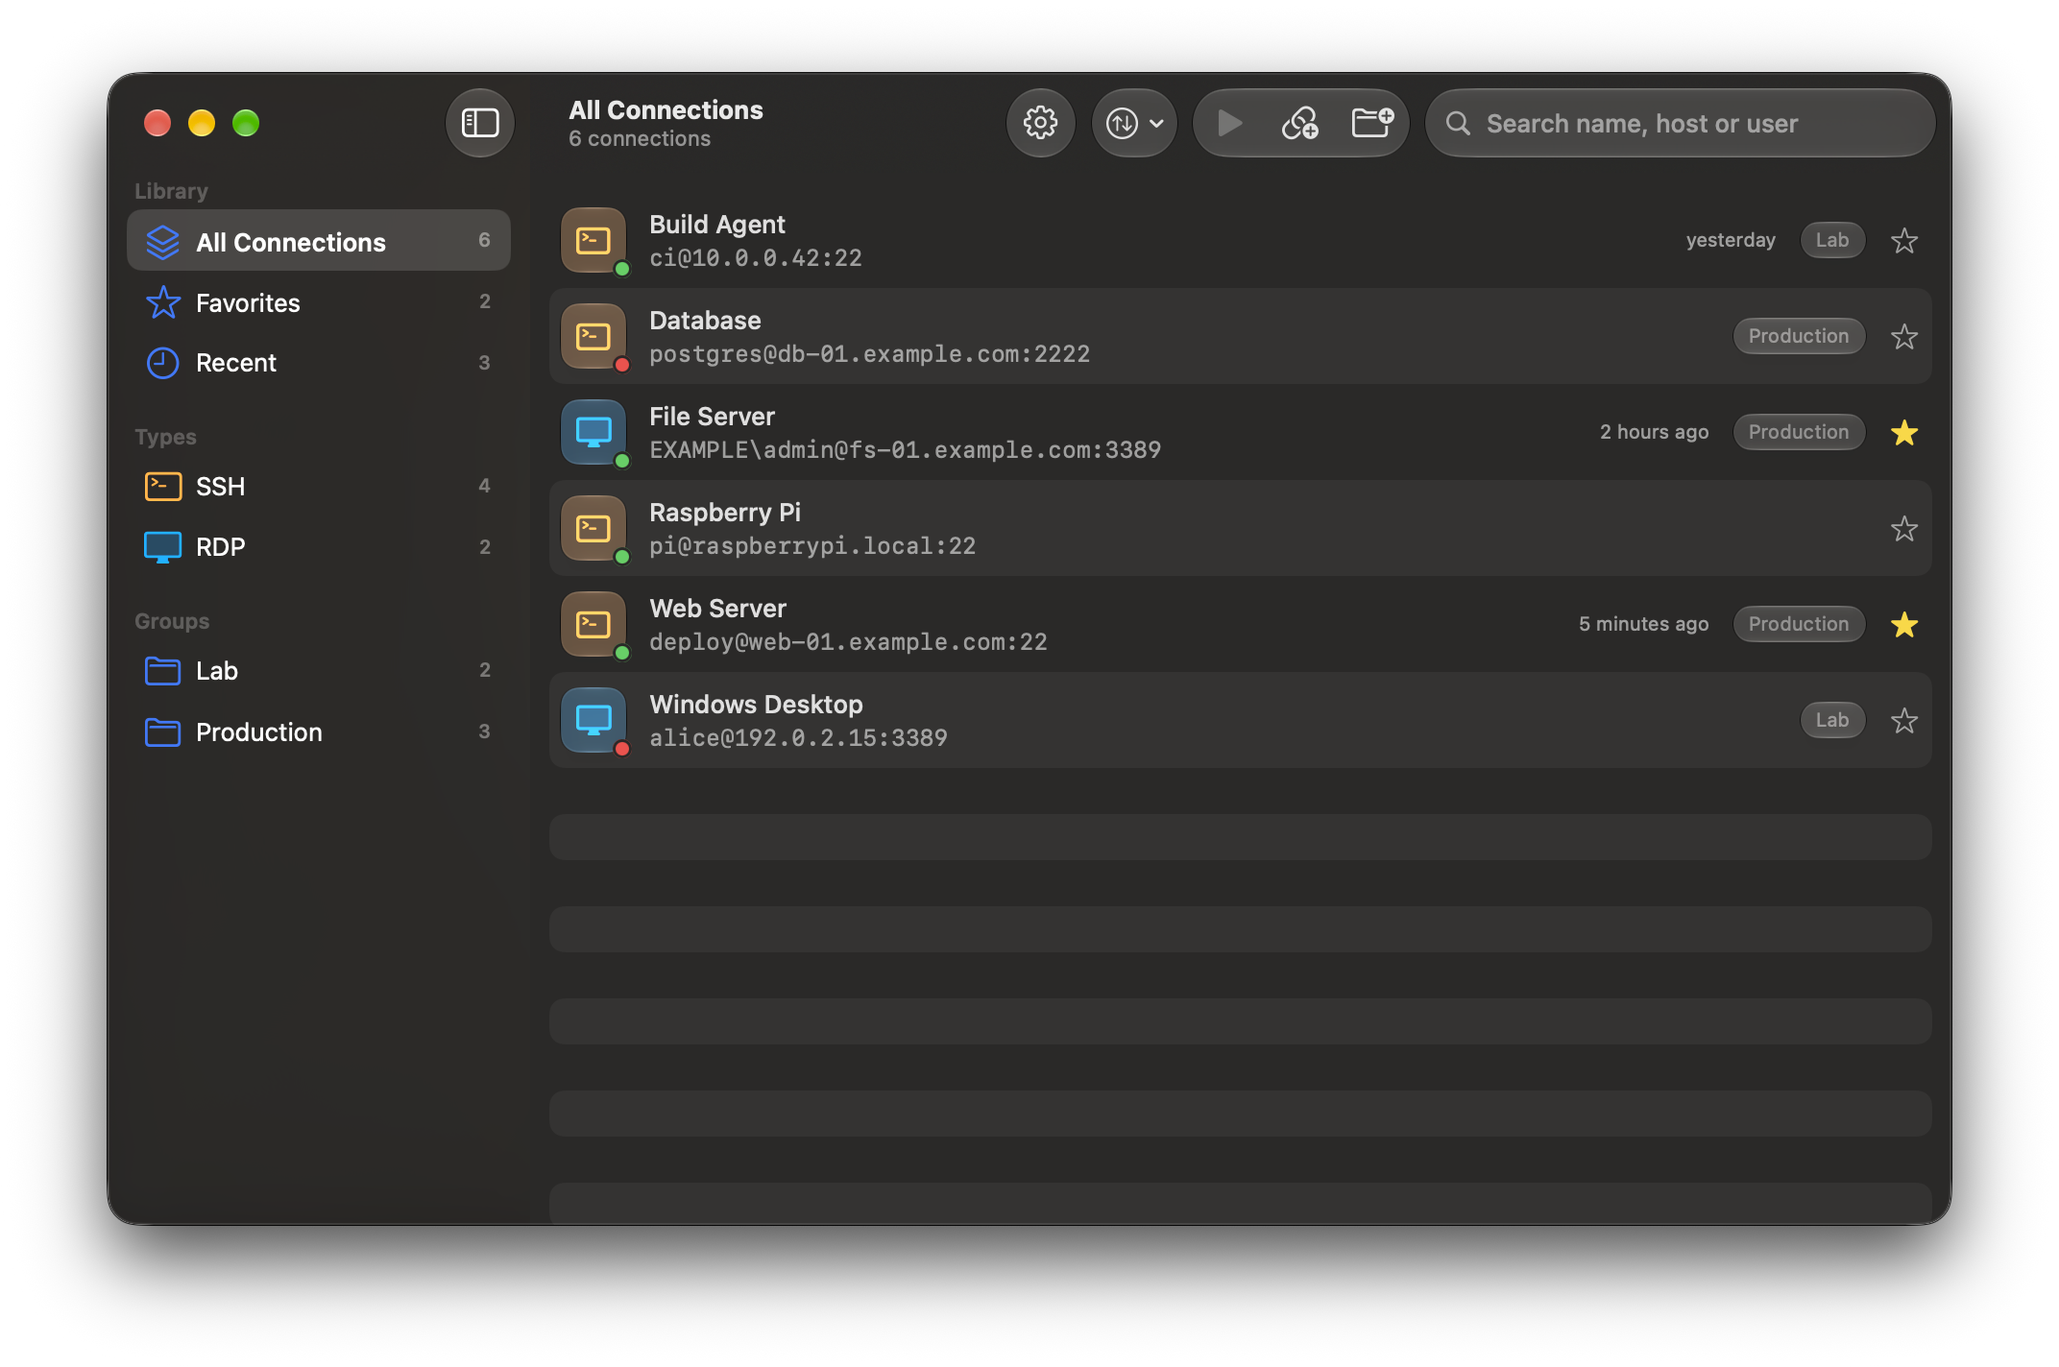
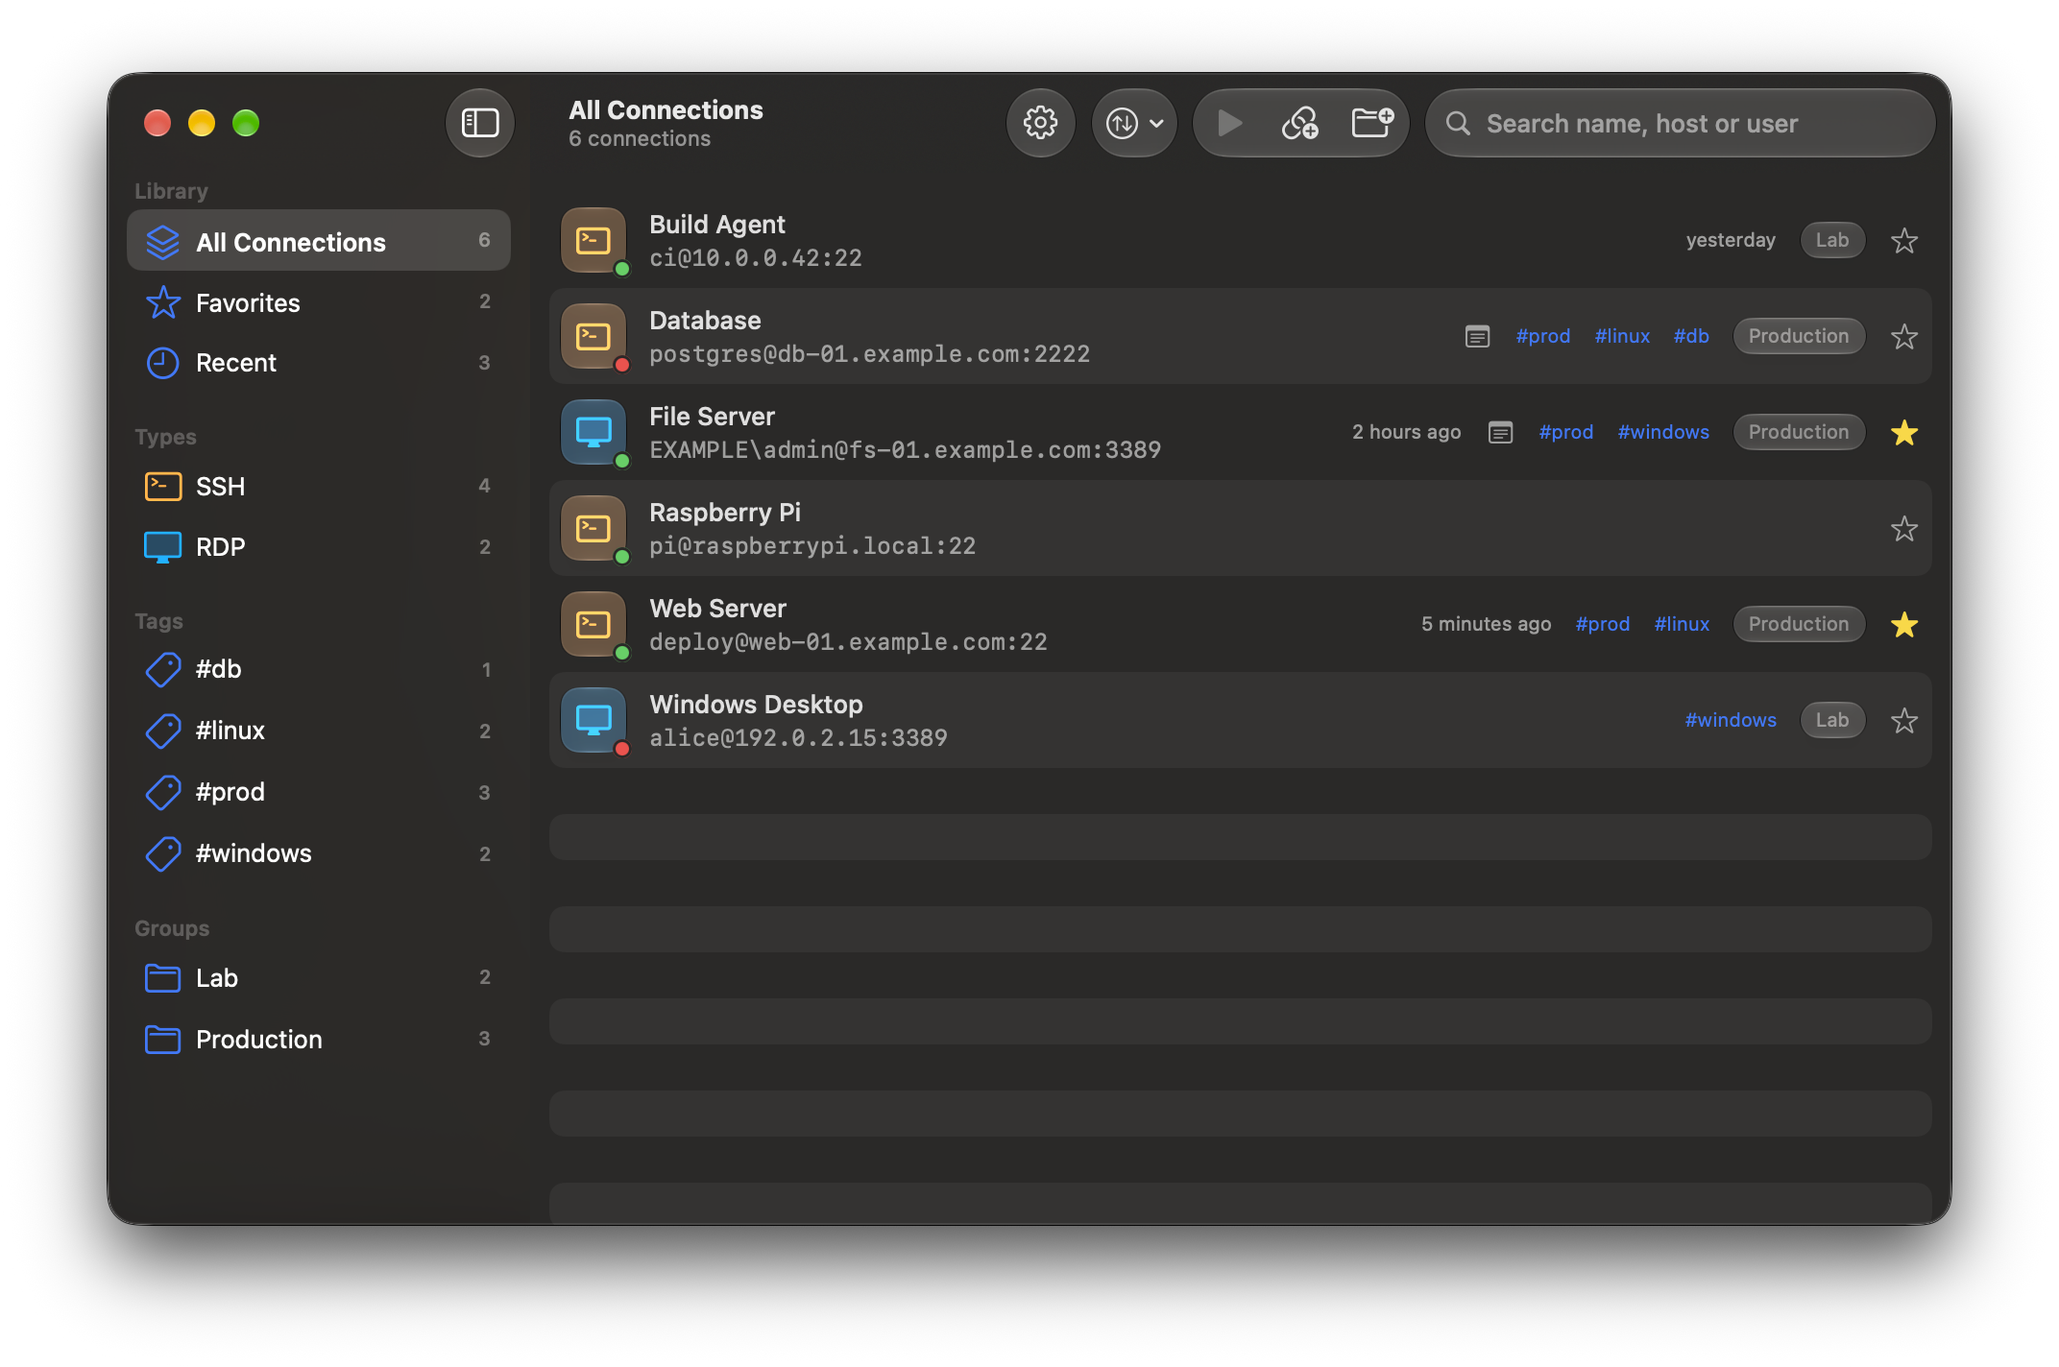
feat: add notes and tags to connections
- Connections get free-form notes and comma-separated tags (trimmed,
  case-insensitively de-duplicated). Existing stores and older backups
  load with empty values.
- Editor: Tags field next to Favorite and a full-width Notes section;
  the form is taller so it doesn't need scrolling.
- Rows show up to three #tags (+N for the rest) and a note icon whose
  tooltip shows the note.
- Sidebar: a Tags section with counts filters by tag.
- List search and quick connect also match notes and tags.
- Backups and Duplicate carry notes and tags; README and screenshots
  updated.

diff --git a/CoreRemoteTests/TagsTests.swift b/CoreRemoteTests/TagsTests.swift
@@ -1,0 +1,67 @@
+import Foundation
+import SwiftData
+import Testing
+@testable import CoreRemote
+
+@MainActor
+struct TagsTests {
+    @Test func normalizeSplitsTrimsAndDedupes() {
+        #expect(Tags.normalize(" prod, Linux ,,prod\nPROD, dc ") == ["prod", "Linux", "dc"])
+        #expect(Tags.normalize("") == [])
+    }
+
+    @Test func countsAreCaseInsensitiveAndSorted() {
+        let a = Connection(name: "A", host: "a", type: .ssh, username: "u", tags: ["prod", "linux"])
+        let b = Connection(name: "B", host: "b", type: .ssh, username: "u", tags: ["Prod"])
+        let counts = Tags.counts(in: [a, b])
+        #expect(counts.map(\.tag) == ["linux", "prod"])
+        #expect(counts.map(\.count) == [1, 2])
+    }
+
+    @Test func sidebarTagFilterIgnoresCase() {
+        let a = Connection(name: "A", host: "a", type: .ssh, username: "u", tags: ["Prod"])
+        let b = Connection(name: "B", host: "b", type: .ssh, username: "u")
+        #expect(SidebarItem.tag("prod").filter([a, b]).map(\.name) == ["A"])
+    }
+
+    @Test func draftRoundTripsNotesAndTags() {
+        let connection = Connection(name: "A", host: "a", type: .ssh, username: "u")
+        var draft = ConnectionDraft(connection: connection, password: nil)
+        draft.tagsText = "web, , Web, linux"
+        draft.notes = "  hello  \n"
+        draft.apply(to: connection, group: nil)
+        #expect(connection.tags == ["web", "linux"])
+        #expect(connection.notes == "hello")
+        #expect(ConnectionDraft(connection: connection, password: nil).tagsText == "web, linux")
+    }
+
+    @Test func quickConnectFindsTagsAndNotes() {
+        let a = Connection(name: "A", host: "a", type: .ssh, username: "u", notes: "replica of primary", tags: ["postgres"])
+        let b = Connection(name: "B", host: "b", type: .ssh, username: "u")
+        #expect(QuickConnectSearch.results(for: "postgres", in: [a, b]).map(\.name) == ["A"])
+        #expect(QuickConnectSearch.results(for: "replica", in: [a, b]).map(\.name) == ["A"])
+    }
+
+    @Test func backupKeepsNotesAndTags() throws {
+        let container = try ModelContainer(
+            for: Connection.self, ConnectionGroup.self,
+            configurations: ModelConfiguration(isStoredInMemoryOnly: true)
+        )
+        let connection = Connection(name: "A", host: "a", type: .ssh, username: "u", notes: "n", tags: ["x", "y"])
+        let payload = BackupStore.payload(connections: [connection], groups: [], includePasswords: false, passwords: InMemoryPasswordStore())
+        let decoded = try Backup.decode(try Backup.encode(payload, passphrase: nil), passphrase: nil)
+
+        let context = ModelContext(container)
+        _ = try BackupStore.importPayload(decoded, into: context, passwords: InMemoryPasswordStore())
+        let imported = try #require(try context.fetch(FetchDescriptor<Connection>()).first)
+        #expect(imported.notes == "n")
+        #expect(imported.tags == ["x", "y"])
+    }
+
+    @Test func olderBackupsWithoutTagsStillImport() throws {
+        let json = #"{"format":"coreremote","version":1,"exportedAt":"2026-01-01T00:00:00Z","payload":{"groups":[],"connections":[{"id":"8C1D9F0E-6B57-4A55-9C2B-2B1E7C3F4A11","name":"Old","host":"h","type":"ssh","port":22,"username":"u","isFavorite":false}]}}"#
+        let payload = try Backup.decode(Data(json.utf8), passphrase: nil)
+        #expect(payload.connections.first?.tags == nil)
+        #expect(payload.connections.first?.notes == nil)
+    }
+}

diff --git a/CoreRemote/App/DemoData.swift b/CoreRemote/App/DemoData.swift
@@ -41,14 +41,16 @@ enum DemoData {
 
         let connections = [
             Connection(name: "Web Server", host: "web-01.example.com", type: .ssh, username: "deploy",
-                       isFavorite: true, group: production),
+                       tags: ["prod", "linux"], isFavorite: true, group: production),
             Connection(name: "Database", host: "db-01.example.com", type: .ssh, port: 2222, username: "postgres",
+                       notes: "Primary PostgreSQL 17. Read replica on db-02.", tags: ["prod", "linux", "db"],
                        group: production),
             Connection(name: "File Server", host: "fs-01.example.com", type: .rdp, username: "EXAMPLE\\admin",
+                       notes: "Shares: \\\\fs-01\\projects, \\\\fs-01\\home", tags: ["prod", "windows"],
                        isFavorite: true, group: production),
             Connection(name: "Build Agent", host: "10.0.0.42", type: .ssh, username: "ci",
                        keyFilePath: "~/.ssh/id_ed25519", group: lab),
-            Connection(name: "Windows Desktop", host: "192.0.2.15", type: .rdp, username: "alice", group: lab),
+            Connection(name: "Windows Desktop", host: "192.0.2.15", type: .rdp, username: "alice", tags: ["windows"], group: lab),
             Connection(name: "Raspberry Pi", host: "raspberrypi.local", type: .ssh, username: "pi"),
         ]
         connections.forEach(context.insert)

diff --git a/CoreRemote/Services/Backup.swift b/CoreRemote/Services/Backup.swift
@@ -20,6 +20,8 @@ nonisolated struct BackupPayload: Codable, Equatable, Sendable {
         var keyFilePath: String?
         /// Missing in files from before this option existed.
         var ignoreCertificateErrors: Bool?
+        var notes: String?
+        var tags: [String]?
         var isFavorite: Bool
         var group: String?
         var password: String?
@@ -178,6 +180,8 @@ enum BackupStore {
                     username: connection.username,
                     keyFilePath: connection.keyFilePath,
                     ignoreCertificateErrors: connection.ignoreCertificateErrors,
+                    notes: connection.notes.isEmpty ? nil : connection.notes,
+                    tags: connection.tags.isEmpty ? nil : connection.tags,
                     isFavorite: connection.isFavorite,
                     group: connection.group?.name,
                     password: includePasswords ? passwords.password(for: connection.id) : nil
@@ -224,6 +228,8 @@ enum BackupStore {
                 username: item.username,
                 keyFilePath: item.type == .ssh ? item.keyFilePath : nil,
                 ignoreCertificateErrors: item.type == .rdp && item.ignoreCertificateErrors == true,
+                notes: item.notes ?? "",
+                tags: Tags.normalize(item.tags ?? []),
                 isFavorite: item.isFavorite,
                 group: group(named: item.group)
             )

diff --git a/CoreRemote/Views/ConnectionRow.swift b/CoreRemote/Views/ConnectionRow.swift
@@ -4,6 +4,8 @@ struct ConnectionRow: View {
     @Bindable var connection: Connection
     var status: ReachabilityMonitor.Status?
 
+    static let visibleTagCount = 3
+
     var body: some View {
         HStack(spacing: 12) {
             TypeBadge(type: connection.type)
@@ -36,6 +38,24 @@ struct ConnectionRow: View {
                 .font(.caption)
                 .foregroundStyle(.secondary)
                 .help(lastConnectedAt.formatted(date: .abbreviated, time: .shortened))
+            }
+
+            if !connection.notes.isEmpty {
+                Image(systemName: "note.text")
+                    .foregroundStyle(.secondary)
+                    .help(connection.notes)
+            }
+
+            ForEach(connection.tags.prefix(Self.visibleTagCount), id: \.self) { tag in
+                Text(verbatim: "#\(tag)")
+                    .font(.caption)
+                    .foregroundStyle(.tint)
+            }
+            if connection.tags.count > Self.visibleTagCount {
+                Text(verbatim: "+\(connection.tags.count - Self.visibleTagCount)")
+                    .font(.caption)
+                    .foregroundStyle(.secondary)
+                    .help(connection.tags.dropFirst(Self.visibleTagCount).map { "#\($0)" }.joined(separator: " "))
             }
 
             if let group = connection.group {

diff --git a/CoreRemote/Models/Tags.swift b/CoreRemote/Models/Tags.swift
@@ -1,0 +1,31 @@
+import Foundation
+
+enum Tags {
+    /// Splits comma- or newline-separated text into tags.
+    nonisolated static func normalize(_ text: String) -> [String] {
+        normalize(text.components(separatedBy: CharacterSet(charactersIn: ",\n")))
+    }
+
+    /// Trims tags, drops empty ones and case-insensitive duplicates, keeping the first spelling and order.
+    nonisolated static func normalize(_ tags: [String]) -> [String] {
+        var seen = Set<String>()
+        return tags
+            .map { $0.trimmingCharacters(in: .whitespacesAndNewlines) }
+            .filter { !$0.isEmpty && seen.insert($0.lowercased()).inserted }
+    }
+
+    /// Every tag in use, case-insensitively unique and sorted, with how many connections carry it.
+    static func counts(in connections: [Connection]) -> [(tag: String, count: Int)] {
+        var counts: [String: (tag: String, count: Int)] = [:]
+        for tag in connections.flatMap(\.tags) {
+            counts[tag.lowercased(), default: (tag, 0)].count += 1
+        }
+        return counts.values.sorted { $0.tag.localizedStandardCompare($1.tag) == .orderedAscending }
+    }
+}
+
+extension Connection {
+    func hasTag(_ tag: String) -> Bool {
+        tags.contains { $0.caseInsensitiveCompare(tag) == .orderedSame }
+    }
+}

diff --git a/CoreRemote/Models/Connection.swift b/CoreRemote/Models/Connection.swift
@@ -13,6 +13,10 @@ final class Connection {
     var keyFilePath: String?
     /// RDP only: connect even when the server certificate can't be verified.
     var ignoreCertificateErrors: Bool = false
+    /// Free-form notes shown in the editor and searched.
+    var notes: String = ""
+    /// Labels such as "prod" or "dc"; see `Tags.normalize`.
+    var tags: [String] = []
     var isFavorite: Bool
     var createdAt: Date
     /// When the connection was last opened; `nil` if never (or after clearing history).
@@ -33,6 +37,8 @@ final class Connection {
         username: String,
         keyFilePath: String? = nil,
         ignoreCertificateErrors: Bool = false,
+        notes: String = "",
+        tags: [String] = [],
         isFavorite: Bool = false,
         createdAt: Date = .now,
         group: ConnectionGroup? = nil
@@ -45,6 +51,8 @@ final class Connection {
         self.username = username
         self.keyFilePath = keyFilePath
         self.ignoreCertificateErrors = ignoreCertificateErrors
+        self.notes = notes
+        self.tags = tags
         self.isFavorite = isFavorite
         self.createdAt = createdAt
         self.group = group

diff --git a/CoreRemote/Views/ConnectionEditor.swift b/CoreRemote/Views/ConnectionEditor.swift
@@ -125,12 +125,24 @@ struct ConnectionEditor: View {
                         Text("New Group…").tag(UUID?.some(Self.newGroupTag))
                     }
                     Toggle("Favorite", isOn: $draft.isFavorite)
+                    TextField("Tags", text: $draft.tagsText, prompt: Text("prod, linux, dc"))
+                        .autocorrectionDisabled()
+                } footer: {
+                    Text("Separate tags with commas.")
+                        .font(.caption)
+                        .foregroundStyle(.secondary)
+                }
+
+                Section("Notes") {
+                    TextField("Notes", text: $draft.notes, prompt: Text("Optional"), axis: .vertical)
+                        .labelsHidden()
+                        .lineLimit(3...6)
                 }
             }
             .formStyle(.grouped)
             .scrollContentBackground(.hidden)
             // A Form in a sheet otherwise collapses to a few rows.
-            .frame(minHeight: 580, idealHeight: 580)
+            .frame(minHeight: 680, idealHeight: 680)
 
             if let errorMessage {
                 Text(errorMessage)

diff --git a/CoreRemote/Models/ConnectionDraft.swift b/CoreRemote/Models/ConnectionDraft.swift
@@ -10,6 +10,9 @@ struct ConnectionDraft: Equatable {
     var password = ""
     var keyFilePath = ""
     var ignoreCertificateErrors = false
+    var notes = ""
+    /// Comma-separated, as typed in the editor.
+    var tagsText = ""
     var isFavorite = false
     var groupID: UUID?
 
@@ -24,6 +27,8 @@ struct ConnectionDraft: Equatable {
         self.password = password ?? ""
         keyFilePath = connection.keyFilePath ?? ""
         ignoreCertificateErrors = connection.ignoreCertificateErrors
+        notes = connection.notes
+        tagsText = connection.tags.joined(separator: ", ")
         isFavorite = connection.isFavorite
         groupID = connection.group?.id
     }
@@ -67,6 +72,8 @@ struct ConnectionDraft: Equatable {
         connection.username = trimmedUsername
         connection.keyFilePath = trimmedKeyFilePath
         connection.ignoreCertificateErrors = type == .rdp && ignoreCertificateErrors
+        connection.notes = notes.trimmingCharacters(in: .whitespacesAndNewlines)
+        connection.tags = Tags.normalize(tagsText)
         connection.isFavorite = isFavorite
         connection.group = group
     }

diff --git a/CoreRemote/Models/QuickConnectSearch.swift b/CoreRemote/Models/QuickConnectSearch.swift
@@ -4,7 +4,7 @@ import Foundation
 enum QuickConnectSearch {
     /// With an empty query: recently used first, then favorites, then the rest by name.
     /// With a query: best match first (name prefix, word in the name, anywhere in the name,
-    /// then host, user or group), ties broken by recent use and name.
+    /// then host, user, group, tags or notes), ties broken by recent use and name.
     static func results(for query: String, in connections: [Connection]) -> [Connection] {
         let query = query.trimmingCharacters(in: .whitespacesAndNewlines)
         let scored = connections.compactMap { connection -> (Connection, Int)? in
@@ -33,7 +33,7 @@ enum QuickConnectSearch {
             return 1
         }
         if name.localizedStandardContains(query) { return 2 }
-        let others = [connection.host, connection.username, connection.group?.name ?? ""]
+        let others = [connection.host, connection.username, connection.group?.name ?? "", connection.notes] + connection.tags
         if others.contains(where: { $0.localizedStandardContains(query) }) { return 3 }
         return nil
     }

diff --git a/CoreRemote/Views/SidebarView.swift b/CoreRemote/Views/SidebarView.swift
@@ -7,6 +7,7 @@ enum SidebarItem: Hashable {
     case recent
     case type(ConnectionType)
     case group(UUID)
+    case tag(String)
 
     static let recentLimit = 10
 
@@ -26,6 +27,7 @@ enum SidebarItem: Hashable {
             )
         case .type(let type): connections.filter { $0.type == type }
         case .group(let id): connections.filter { $0.group?.id == id }
+        case .tag(let tag): connections.filter { $0.hasTag(tag) }
         }
     }
 }
@@ -49,6 +51,15 @@ struct SidebarView: View {
             Section("Types") {
                 ForEach(ConnectionType.allCases) { type in
                     row(.type(type), title: Text(verbatim: type.title), symbol: type.symbol, tint: type.tint)
+                }
+            }
+
+            let tags = Tags.counts(in: connections)
+            if !tags.isEmpty {
+                Section("Tags") {
+                    ForEach(tags, id: \.tag) { entry in
+                        row(.tag(entry.tag), title: Text(verbatim: "#\(entry.tag)"), symbol: "tag")
+                    }
                 }
             }
 

diff --git a/CoreRemote/Views/ConnectionListView.swift b/CoreRemote/Views/ConnectionListView.swift
@@ -22,8 +22,8 @@ struct ConnectionListView: View {
         let query = searchText.trimmingCharacters(in: .whitespaces)
         return filter.filter(allConnections).filter { connection in
             guard !query.isEmpty else { return true }
-            return [connection.name, connection.host, connection.username, connection.group?.name ?? ""]
-                .contains { $0.localizedStandardContains(query) }
+            let fields = [connection.name, connection.host, connection.username, connection.group?.name ?? "", connection.notes]
+            return (fields + connection.tags).contains { $0.localizedStandardContains(query) }
         }
     }
 
@@ -164,6 +164,8 @@ struct ConnectionListView: View {
             username: connection.username,
             keyFilePath: connection.keyFilePath,
             ignoreCertificateErrors: connection.ignoreCertificateErrors,
+            notes: connection.notes,
+            tags: connection.tags,
             isFavorite: connection.isFavorite,
             group: connection.group
         )

diff --git a/CoreRemote/Views/ContentView.swift b/CoreRemote/Views/ContentView.swift
@@ -172,6 +172,7 @@ struct ContentView: View {
         case .recent: String(localized: "Recent")
         case .type(let type): type.title
         case .group(let id): groups.first { $0.id == id }?.name ?? String(localized: "Group")
+        case .tag(let tag): "#\(tag)"
         }
     }
 
